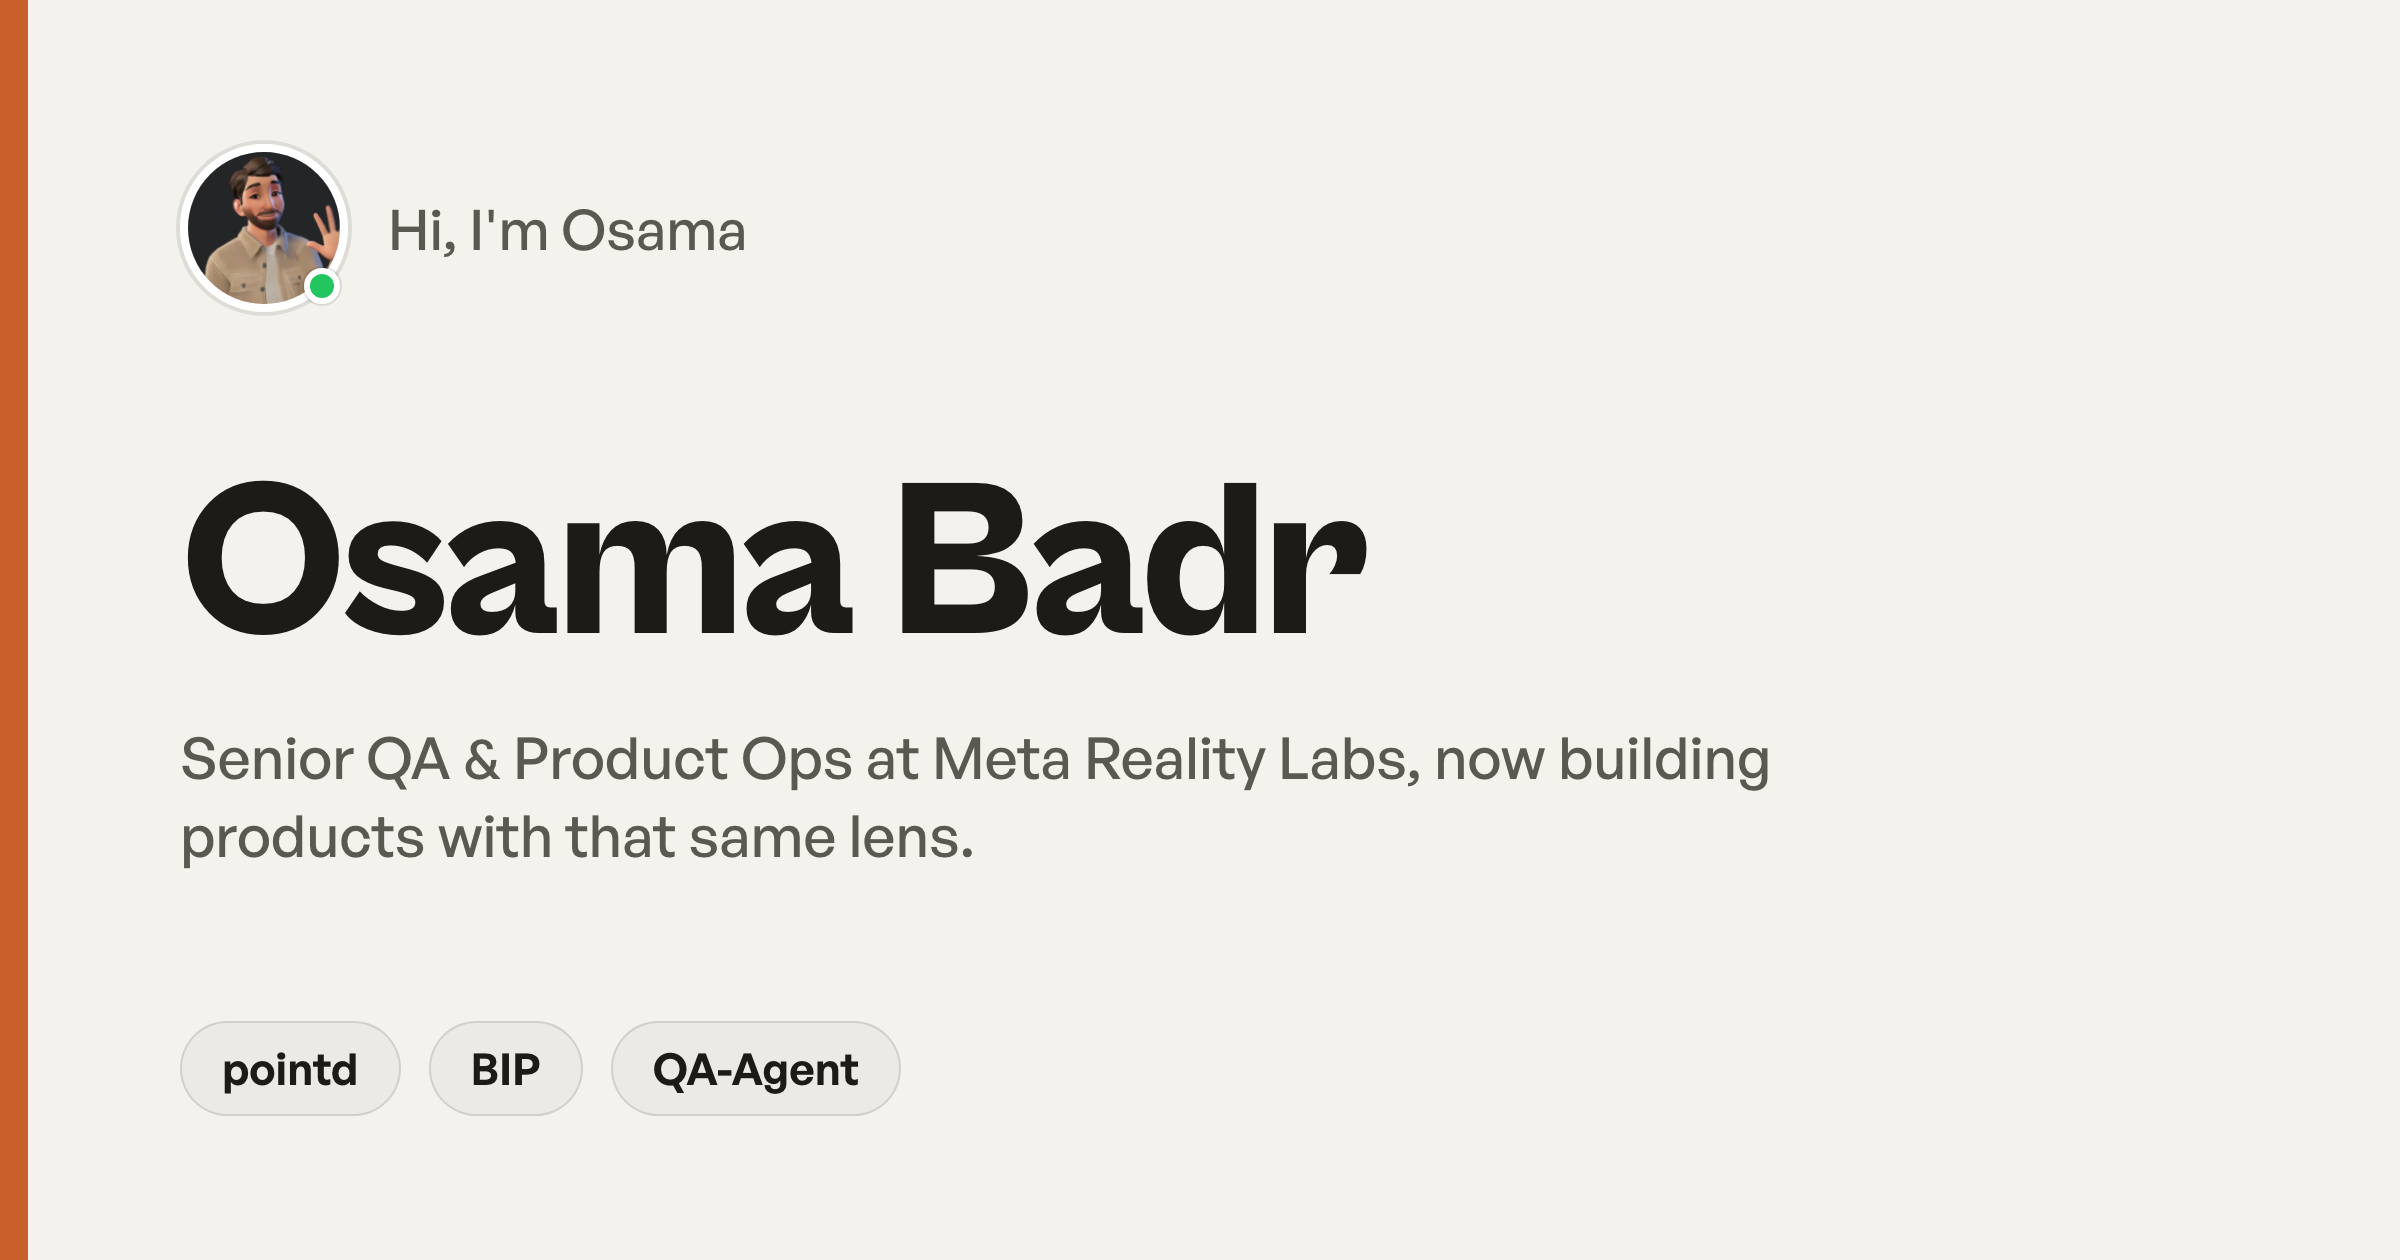
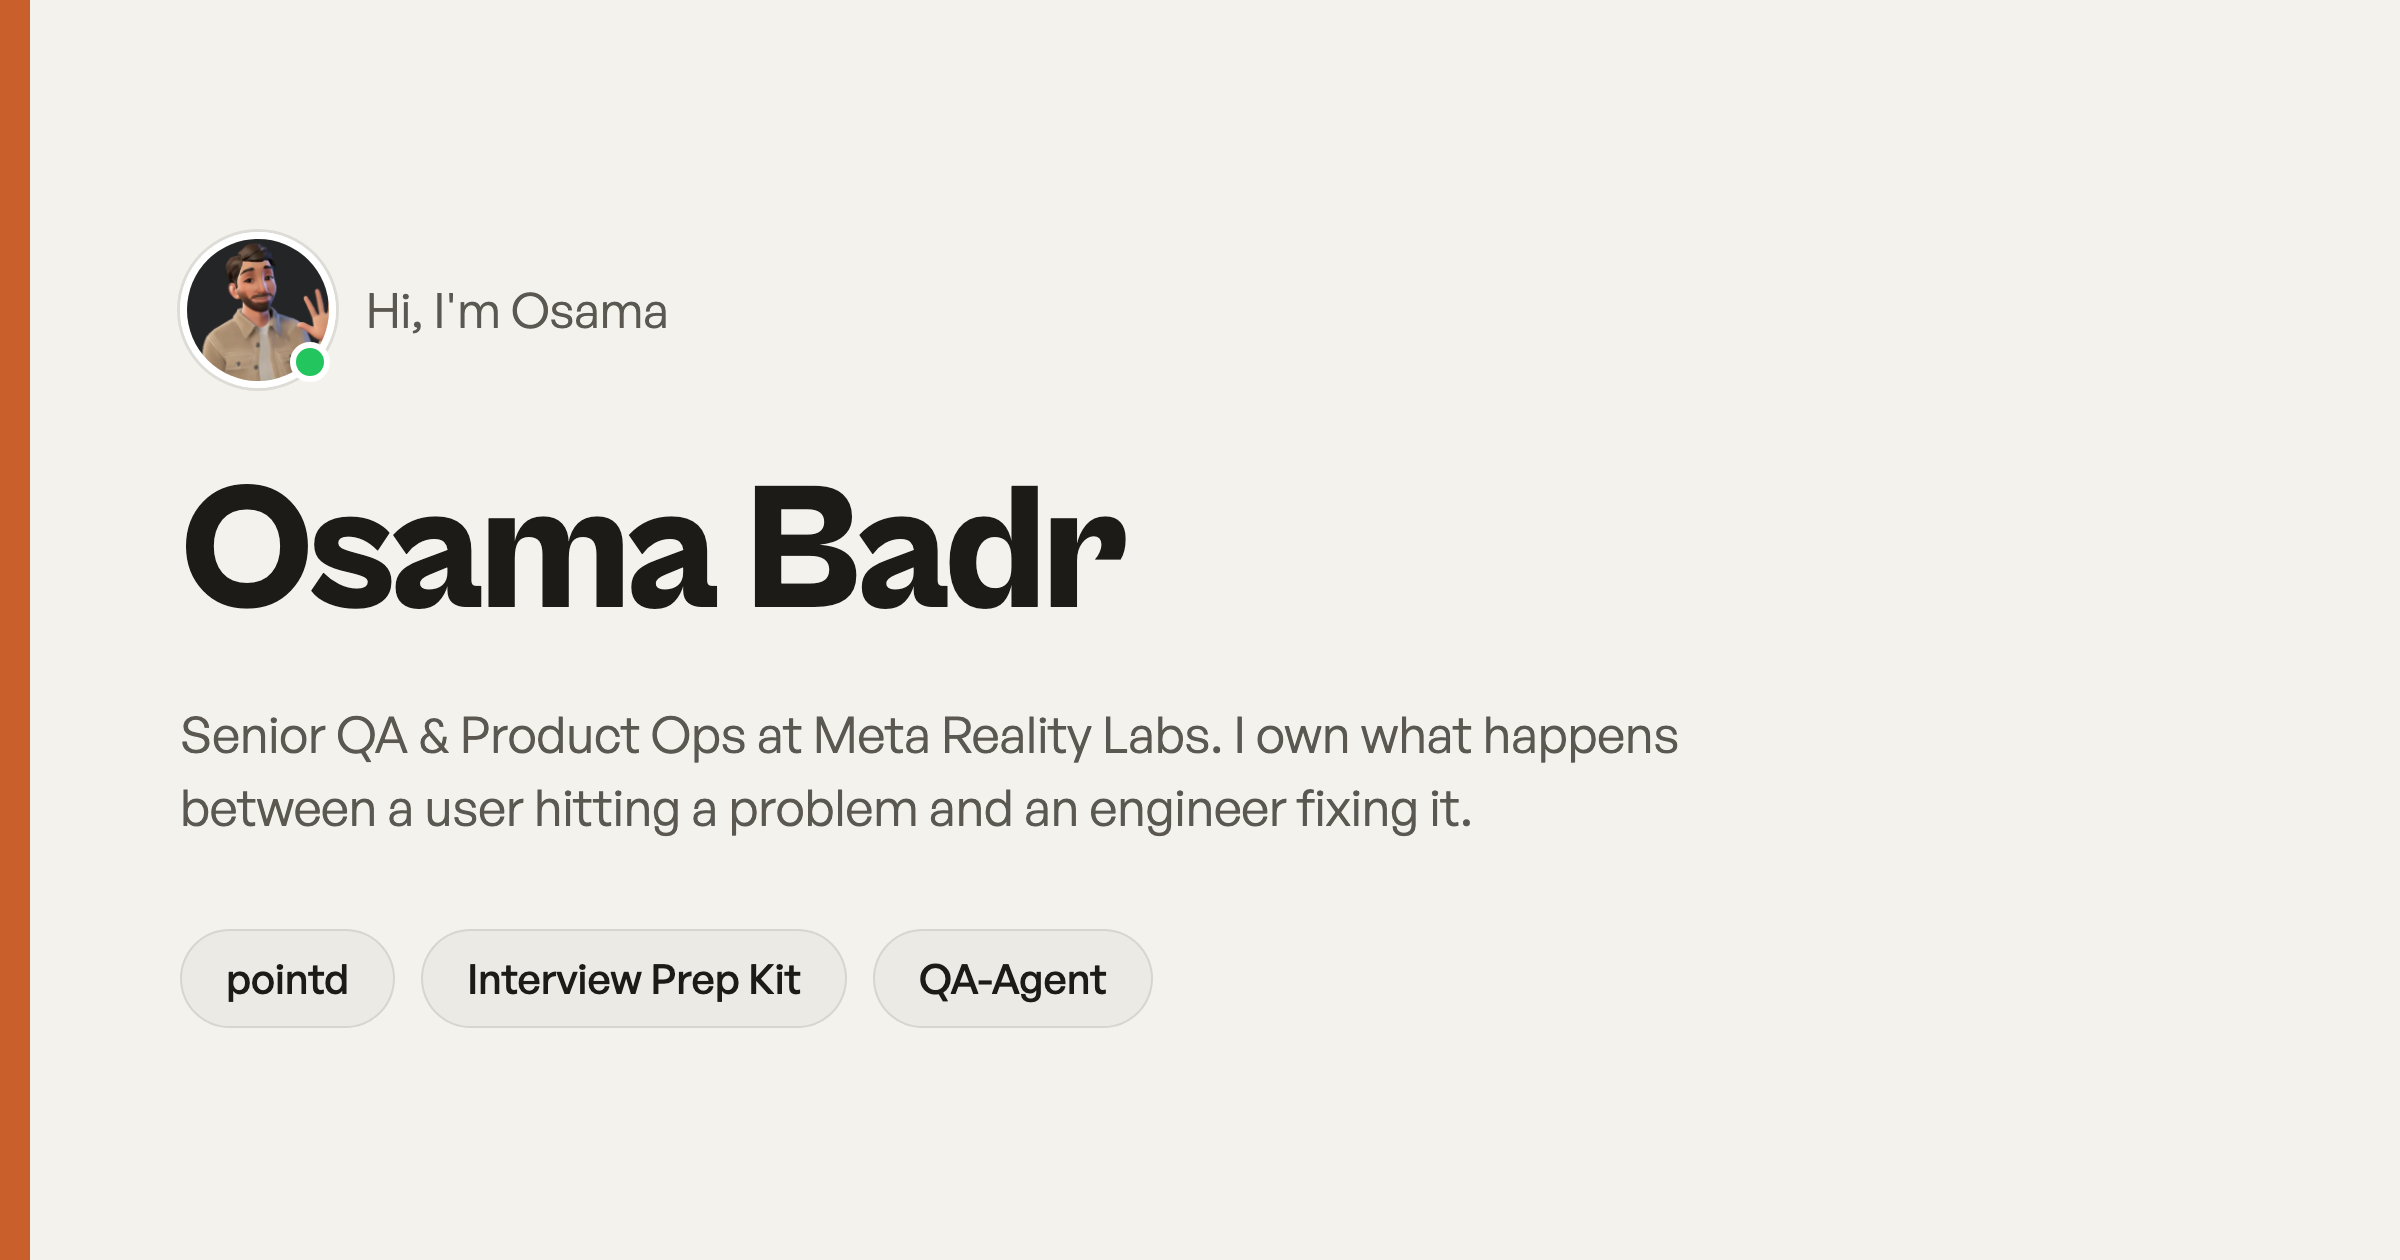
Regenerate the OG image; it still showed BIP and the old hero copy
The link-preview card is a baked PNG, so the earlier meta-tag edits didn't
touch it — shared links still showed "now building products with that same
lens" and a BIP pill.

Rebuilds it with the current positioning and the pointd / Interview Prep Kit
/ QA-Agent lineup. Adds assets/og-template.html as the source and
scripts/render-og.mjs to render it, so the next copy change is a re-run
rather than a hand-made PNG. The renderer refuses to output if the webfonts
fail to load, so it can't silently ship a system-font fallback.

diff --git a/assets/og-template.html b/assets/og-template.html
@@ -1,0 +1,119 @@
+<!DOCTYPE html>
+<html lang="en">
+<head>
+<meta charset="UTF-8">
+<title>OG image template</title>
+<!--
+  Source for assets/og-image.png (2400x1260).
+  Regenerate after changing the hero copy or the project list — the PNG is
+  what link previews show, and it does NOT pick up meta-tag edits.
+
+  Render:  node scripts/render-og.mjs
+-->
+<link rel="preconnect" href="https://api.fontshare.com">
+<link rel="preconnect" href="https://cdn.fontshare.com" crossorigin>
+<link href="https://api.fontshare.com/v2/css?f[]=cabinet-grotesk@700,800&f[]=general-sans@300,400,500,600&display=swap" rel="stylesheet">
+<style>
+  *, *::before, *::after { box-sizing: border-box; margin: 0; padding: 0; }
+  :root {
+    --bg: #f4f2ed;
+    --surface-2: #eceae4;
+    --ink: #1c1b18;
+    --ink-2: #5a5850;
+    --border: rgba(28,27,24,0.1);
+    --accent: #c95f2a;
+    --serif: 'Cabinet Grotesk', system-ui, sans-serif;
+    --sans: 'General Sans', system-ui, sans-serif;
+  }
+  html, body { width: 2400px; height: 1260px; }
+  body {
+    background: var(--bg);
+    font-family: var(--sans);
+    display: flex;
+    align-items: center;
+    overflow: hidden;
+  }
+  .accent-bar {
+    position: absolute;
+    left: 0; top: 0; bottom: 0;
+    width: 30px;
+    background: var(--accent);
+  }
+  .card { padding: 0 180px; width: 100%; }
+
+  .intro { display: flex; align-items: center; gap: 30px; margin-bottom: 76px; }
+  .avatar-wrap { position: relative; width: 156px; height: 156px; flex-shrink: 0; }
+  .avatar {
+    width: 156px; height: 156px;
+    border-radius: 50%;
+    overflow: hidden;
+    border: 7px solid #fff;
+    box-shadow: 0 0 0 3px var(--border);
+  }
+  .avatar img {
+    width: 100%; height: 100%;
+    object-fit: cover;
+    object-position: 62% 18%;
+    transform: scale(1.2);
+    transform-origin: 62% 18%;
+    display: block;
+  }
+  .avatar-dot {
+    position: absolute;
+    bottom: 6px; right: 6px;
+    width: 40px; height: 40px;
+    border-radius: 50%;
+    background: #22c55e;
+    border: 6px solid #fff;
+  }
+  .intro span { font-size: 48px; color: var(--ink-2); font-weight: 400; }
+
+  h1 {
+    font-family: var(--serif);
+    font-size: 180px;
+    font-weight: 800;
+    line-height: 1;
+    letter-spacing: -0.025em;
+    color: var(--ink);
+    margin-bottom: 54px;
+  }
+  .sub {
+    font-size: 50px;
+    line-height: 1.45;
+    color: var(--ink-2);
+    max-width: 1640px;
+    margin-bottom: 86px;
+  }
+  .pills { display: flex; gap: 26px; }
+  .pill {
+    font-size: 41px;
+    font-weight: 500;
+    color: var(--ink);
+    background: var(--surface-2);
+    border: 2px solid var(--border);
+    border-radius: 999px;
+    padding: 20px 44px;
+    white-space: nowrap;
+  }
+</style>
+</head>
+<body>
+  <div class="accent-bar"></div>
+  <div class="card">
+    <div class="intro">
+      <div class="avatar-wrap">
+        <div class="avatar"><img src="avatar-wave-v2.png" alt=""></div>
+        <span class="avatar-dot"></span>
+      </div>
+      <span>Hi, I'm Osama</span>
+    </div>
+    <h1>Osama Badr</h1>
+    <p class="sub">Senior QA &amp; Product Ops at Meta Reality Labs. I own what happens between a user hitting a problem and an engineer fixing it.</p>
+    <div class="pills">
+      <span class="pill">pointd</span>
+      <span class="pill">Interview Prep Kit</span>
+      <span class="pill">QA-Agent</span>
+    </div>
+  </div>
+</body>
+</html>
